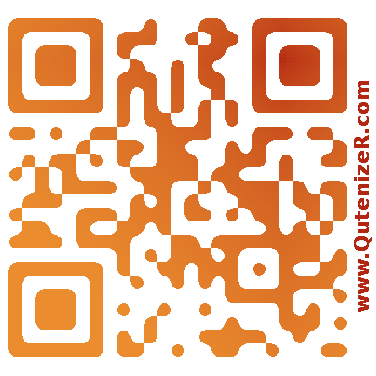
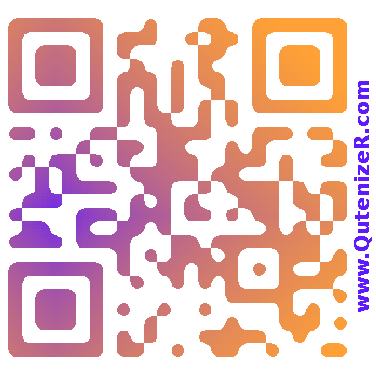
release 0.2.0 - 20150310
git-svn-id: https://plugins.svn.wordpress.org/qutenizer/trunk@1109272 b8457f37-d9ea-0310-8a92-e5e31aec5664

diff --git a/js/qutenizer.js b/js/qutenizer.js
@@ -40,7 +40,7 @@ jQuery(document).ready(function(){
 			 }).done(function(qtzr_response){ 
 				var _qtzr_response = qtzr_response.split(";");
 				if(_qtzr_response[0] == 'OK'){
-						document.getElementById('qtzr_image').src = _qtzr_response[1];					
+						document.getElementById('qtzr_image').src = _qtzr_response[1];
 				 }else{
 						qtzr_message_show(_qtzr_response[1]);	
 				 } 
@@ -68,7 +68,7 @@ jQuery(document).ready(function(){
 			 }).done(function(qtzr_response){ 
 				var _qtzr_response = qtzr_response.split(";");
 				if(_qtzr_response[0] == 'OK'){
-						document.getElementById('qtzr_image').src = _qtzr_response[1];
+						document.getElementById('qtzr_image').src =  _qtzr_response[1]; 
 						qtzr_message_show('Image loaded to Media Libray');				
 				 }else{
 						qtzr_message_show(_qtzr_response[1]);	

diff --git a/qutenizer.php b/qutenizer.php
@@ -4,7 +4,7 @@
 	Plugin URI: http://qutenizer.com 
 	Description: QutenizeR plugin for WordPress is a funny way to easy create cute & colorful QR codes.
 	Author: Dweius 
-	Version: 0.1.0 
+	Version: 0.2.0 
 	Author URI: http://dweius.com
 	License: GPLv2 or later
 */  
@@ -160,7 +160,7 @@ function qtzr_generate_callback(){
 				
 				$g_dtime = date("Y-m-d H:i:s");
 			
-				$g_data = $g_shape.','. $g_colors.','. $g_kolors . ',' . $g_text;
+				$g_data = 'Text: ' . $g_text;
 			
 				$g_text = $g_dtime . ' ' . $image_name . ' ' . $g_data . PHP_EOL;
 			
@@ -261,9 +261,9 @@ function qtzr_get_last_post_generated($g_pid){
 			
 		foreach($qtzr_images_a as &$qtzr_image){
 									
-			$aux_name = $qtzr_image -> post_name;
+			$aux_name = $qtzr_image -> post_title;
 					
-			if(substr($aux_name,0,4) === 'qtzr'){
+			if(substr($aux_name,0,9) === 'QutenizeR'){
 						
 				$qtzr_aux_pos_a = explode("-",$aux_name);
 						
@@ -407,17 +407,17 @@ function qtzr_post_generate(){
 			
 			file_put_contents($generated_textfile, $g_text, FILE_APPEND);
 			
-			$qtzr_last_image_id;
-			
-			$qtzr_last_image_c = -1;
+			$qtzr_last_image_c = 0;
 			
 			$qtzr_images_a = get_attached_media( 'image', $g_pid );
 			
+			if(isset($qtzr_images_a) &&  $qtzr_images_a !== null){
+			
 			foreach($qtzr_images_a as &$qtzr_image){
 									
-					$aux_name = $qtzr_image -> post_name;
+					$aux_name = $qtzr_image -> post_title;
 					
-					if(substr($aux_name,0,4) === 'qtzr'){
+					if(substr($aux_name,0,9) === 'QutenizeR'){
 						
 						$qtzr_aux_pos_a = explode("-",$aux_name);
 						
@@ -427,25 +427,28 @@ function qtzr_post_generate(){
 					
 							$qtzr_aux_c = intval($qtzr_aux_pos);
 	
-						if( $qtzr_aux_c > $qtzr_last_image_c){
+							if( $qtzr_aux_c > $qtzr_last_image_c){
 							
-							$qtzr_last_image_c = $qtzr_aux_c;	
-						}			
+								$qtzr_last_image_c = $qtzr_aux_c;	
+							}			
+						}
 					}
-				}
-			}	
-						
+				}	
+			
+			}
+		
 			$g_lim_i = $qtzr_last_image_c + 1;
 			
 			$g_title_s_san = preg_replace('/[^a-zA-Z0-9\']/', '_', get_the_title($g_pid) );
 			
 			$g_title_s = str_replace("'", '', $g_title_s_san);
+			
+			$i_name = 'qtzr-' . $g_lim_i . '-' . substr( $g_title_s, 0, 24 ) . '-' . substr($image_name,0, 7);
+			$g_loaded = import_quenizer_image($url_generated, $g_pid, $image_name, $g_lim_i);
 
-			$g_loaded = media_sideload_image( $url_generated . $image_name, $g_pid , 'qtzr-' . $g_lim_i . '-' . substr( $g_title_s, 0, 24 ) . '-' . substr($image_name,0, 7));
-			
-			$demi_g_loaded = substr($g_loaded, stripos($g_loaded, "src='") + strlen("src='"),  stripos($g_loaded, "'", stripos($g_loaded, "src='") + strlen("src='") + 1) - (stripos($g_loaded, "src='") + strlen("src='")));
-			
-			echo 'OK;'.$demi_g_loaded;
+			$demi_g_loaded = wp_get_attachment_image_src($g_loaded)[0];			
+	
+			echo 'OK;' .$demi_g_loaded;
 			
 			die();
 			
@@ -484,9 +487,9 @@ function qutenizer_admin_menu() {
 	$page = add_submenu_page( 'options-general.php', // The parent page of this menu
                               __( 'QutenizeR', 'qutenizer' ), // The Menu Title
                               __( 'QutenizeR', 'qutenizer' ), // The Page title
-              						'manage_options', // The capability required for access to this item
-              						'qutenizer-options', // the slug to use for the page in the URL
-                              'qutenizer_manager' // The function to call to render the page
+              			'manage_options', // The capability required for access to this item
+              			'qutenizer-options', // the slug to use for the page in the URL
+                             	'qutenizer_manager' // The function to call to render the page
                            	);
                            	
    add_action('admin_print_scripts-' . $page, 'qutenizer_admin_scripts');
@@ -536,4 +539,48 @@ function qutenizer_admin_options() {
 	wp_register_script( 'qutenizer-jscolor-script', plugins_url( 'jscolor/jscolor.js',  __FILE__ )  );
 	
 }
+
+function import_quenizer_image( $url_generated, $postid, $image_name_d, $image_no) {
+
+	$post = get_post( $postid );
+	if( empty( $post ) )
+		return false;
+
+	if( !class_exists( 'WP_Http' ) )
+	  include_once( ABSPATH . WPINC. '/class-http.php' );
+
+	$photo = new WP_Http();
+	$photo = $photo->request( $url_generated . $image_name_d );
+	if( $photo['response']['code'] != 200 )
+		return false;
+
+	$attachment = wp_upload_bits( 'QutenizeR.png', null, $photo['body'], date("Y-m", strtotime( $photo['headers']['last-modified'] ) ) );
+	if( !empty( $attachment['error'] ) )
+		return false;
+
+	$filetype = wp_check_filetype( basename( $attachment['file'] ), null );
+
+	$postinfo = array(
+		'post_mime_type'	=> $filetype['type'],
+		'post_title'		=> ' QutenizeR image -' . $image_no . '- ' . $post->post_title,
+		'post_content'		=> '',
+		'post_status'		=> 'inherit',
+	);
+	$filename = $attachment['file'];
+	$attach_id = wp_insert_attachment( $postinfo, $filename, $postid );
+
+	if( !function_exists( 'wp_generate_attachment_data' ) )
+		require_once(ABSPATH . "wp-admin" . '/includes/image.php');
+	$attach_data = wp_generate_attachment_metadata( $attach_id, $filename );
+	wp_update_attachment_metadata( $attach_id,  $attach_data );
+	return $attach_id;
+}
+function qutenizer_settings_link($links) { 
+  $settings_link = '<a href="options-general.php?page=qutenizer-options">' . __( "Settings", "qutenizer" ) . '</a>'; 
+  array_unshift($links, $settings_link); 
+  return $links; 
+}
+ 
+$plugin = plugin_basename(__FILE__); 
+add_filter("plugin_action_links_$plugin", 'qutenizer_settings_link' );
 ?>

diff --git a/qutenizer_maintenance.php b/qutenizer_maintenance.php
@@ -81,7 +81,7 @@ class QutenizeRInit {
         $generated_header_row_1 = "###############################################";
         $generated_header_row_2 = " ###                                       ### ";
         $generated_header_row_3 = "  ###   QutenizeR Plugin for WordPRess    ###  ";
-        $generated_header_row_4 = "  ###    2013     by #dweius     enjoy!   ###  ";
+        $generated_header_row_4 = "  ###  2013·2015   by @dweius    enjoy!   ###  ";
         
         $generated_header = $generated_header_row_1 . PHP_EOL . $generated_header_row_2 . PHP_EOL .
         			$generated_header_row_3 .PHP_EOL . $generated_header_row_2 .PHP_EOL . $generated_header_row_4 .PHP_EOL .
@@ -92,13 +92,13 @@ class QutenizeRInit {
 				
 		  //*** we continue with options
 			
-			update_option ( 'qutenizer_version', '0.1.0' );
+			update_option ( 'qutenizer_version', '0.2.0' );
 
-			update_option( 'qutenizer_shape',  'social' );
+			update_option( 'qutenizer_shape',  'tears' );
 			update_option( 'qutenizer_color_type',  'duet' );
-			update_option( 'qutenizer_color_one',  'B32712');
-			update_option( 'qutenizer_color_two',  'EB8D2F');
-			update_option( 'qutenizer_color_three',  '37759E');
+			update_option( 'qutenizer_color_one',  '5E19FF');
+			update_option( 'qutenizer_color_two',  'FFA136');
+			update_option( 'qutenizer_color_three',  'FF42AD');
 			
 			update_option( 'qutenizer_post_direct',  'on' );
 									

diff --git a/qutenizer_functions.php b/qutenizer_functions.php
@@ -5,7 +5,10 @@
  */
 function serialize_version( $version ){
 	
-	if( $version === '0.1.0' ) {
+	if( $version === '0.2.0' ) {
+		//second release 
+		return 2;
+	}else if( $version === '0.1.0' ) {
 		//first release - beta
 		return 1;
 	} else  {
